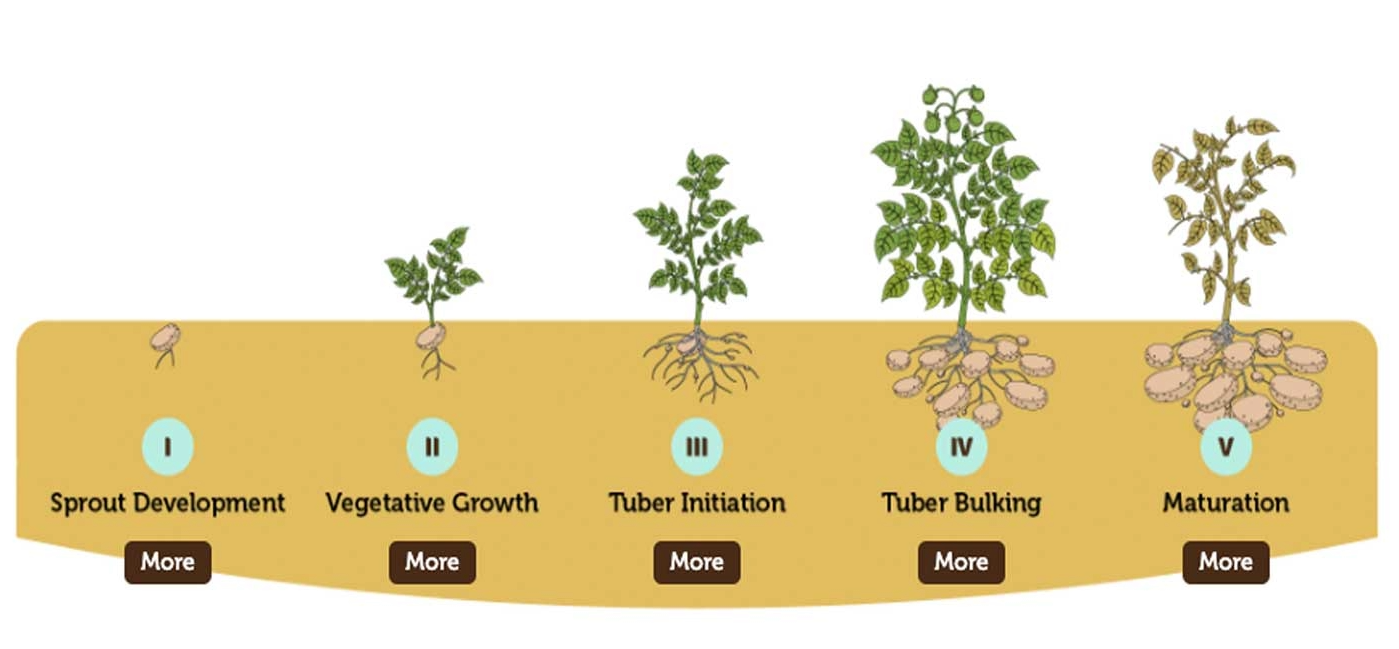
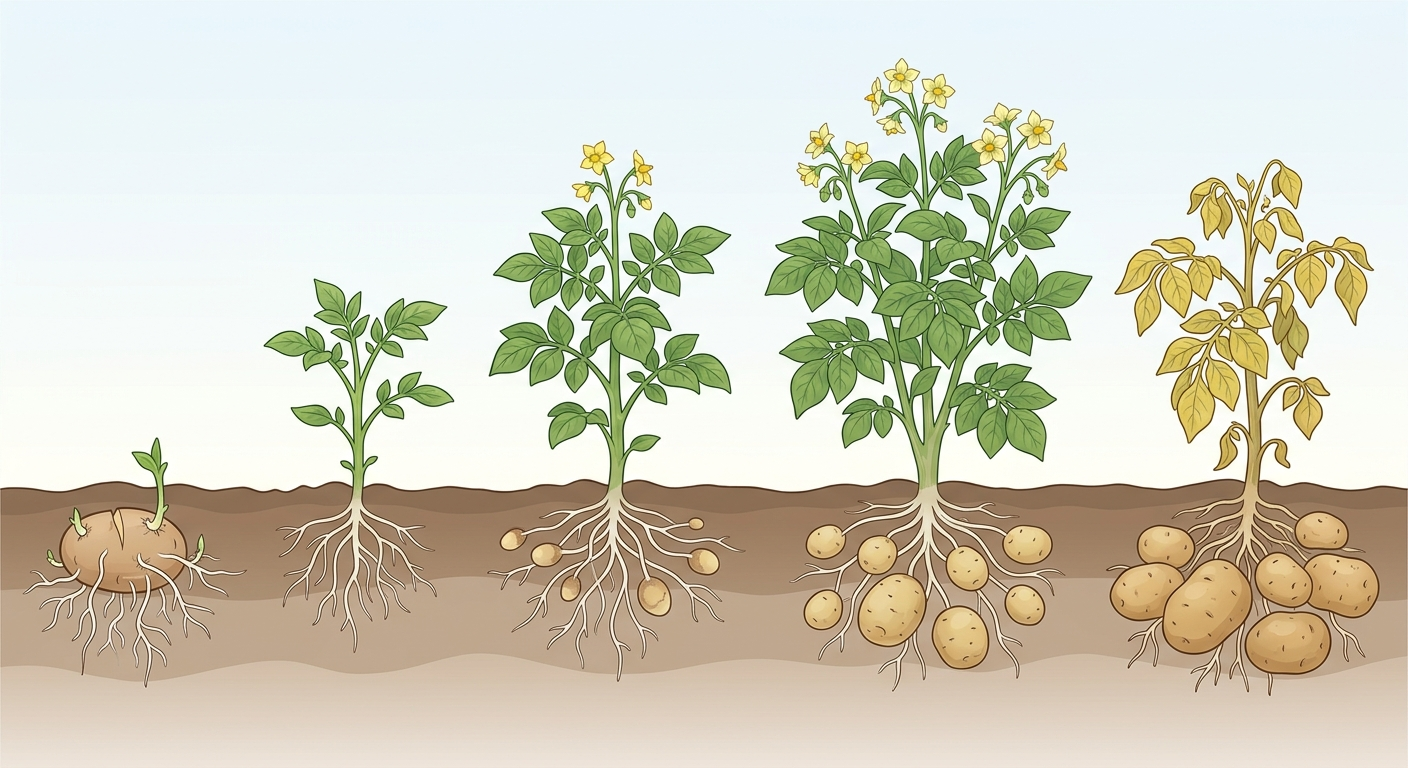
Cut word count  to add more white space

diff --git a/index.html b/index.html
@@ -58,11 +58,11 @@
       <p>After harvesting, the remaining plants/roots decomposese back into the dirt and the harvest is massive  The overall positive is it helps the dirt temporarily and not long term.</p>
         </div>
         <div class="grid2-grid">
-          <div class="titlebox">Potatoes disturb the soil</div>
+          <div class="titlebox">Negatives</div>
           <img src="./Images/potato-soil.jpg" alt="Potato in soil" class="grid2-img">
         </div>
           <div class="grid2-text">
-      <p>The negatives are that if you disturb the soil to much, you might destory the soil aggregates. Soil aggregates are clumps of sand, silt and clay stuck together by micorbial glues and plant roots so they resist erosion and resist being blown away. Potatoes require large amounts of nutrients to develop. Because potatoes take so much nutrient and don't return much the soil will need time to recover</p> 
+      <p>The negatives are that if you disturb the soil to much, you might destory the soil aggregates. Soil aggregates are clumps of sand, silt and clay stuck together by micorbial glues and plant roots so they resist erosion and resist being blown away. Potatoes use lots of nutrients to develop so the soil will need time to recover. Poatoes also attract pests.</p> 
       <p>There is also somehting called the <a href="info.html">Potato Blight</a> which is a potato diesease. Its a disease that make potatoes completly unedible and turn into a foul mush.</p> 
         </div>
           <div class="grid2-text3">
@@ -80,7 +80,7 @@
       <!---The first sub header banner-->
       <section class="bannerbg1">
         <h3 class="bannertext1">
-        How to finally grow potatoes?
+      Beginner guide to grow potatoes.
       </h3>
       </section>
       <!---Alternating format steps-->
@@ -101,15 +101,15 @@
         </div>
         <div class="s1text">
           <h1>Step 2: Prepare the soil to plant</h1>
-          <p class="T1">Start by choosing the day for planting. Jersey benne should be planted in late Auguts and September while Rua and Agria s recommended to be planted in October or November. Then choose a sunny spot that gets 6 to 8 hours if sunlight. Dig holes about 10-15cm deep make sure each of the seed potato sprouts face primarily up. You don't need to space pits if you just dig a long trnech.</p>
+          <p class="T1">Start by choosing the day for planting. Jersey benne should be planted in late Auguts and September while Rua and Agria s recommended to be planted in October or November. Then choose a sunny spot that gets 6 to 8 hours if sunlight. Dig holes or a trench about 10-15cm deep make sure each of the seed potato sprouts face primarily up. J
           <p class="T1">For the early season potato, Jersey Benne, you want the pits about 30cm away form each other. For the maincrops like Rua and Agria you want about 40cm between pits. Potatoes love lots of organic matter because it helps them grow so you can add in some potato fertilizer. Then place a seed potato with the sprout facing up into each pit. Then bury them halfway with about 10cm of dirt and not buryinng them enitrily with 15cm of dirt.</p>
         </div>
       </section>
       <section class="alt2">
         <div class="s1text">
           <h1>Step 3: Start growing potatoes</h1>
-          <p class="T1">Water them lightly when the top layer of soil is dry to touch. After watering the soil, it should be as wet as a wrung out sponge. Is the soil is woaking wet, then the seed potato might rot away. It usually takes about 10-14 days for early varieties(Jersey Benne) for shoots to grow from the ground. It takes about 2-3 weeks for maincrop and late varieties(Agria & Rua) for the shoots to grow out of the ground.</p>
-          <p class="T1">For early growth, you can start watering them with about 1.25 Litres of water per potato at the bottom of the stem to keep leaves dry. Water 1-2 times per week. The top soil layer should dry out between waterings but the soil 5cm down should remain damp. Wehn the stem grows to abotu 15-20cm you should mound up so sorrounding dirt 5-10cm tall onto the stem leaving the top stick out.</p>
+          <p class="T1">Water them lightly when the top layer of soil is dry to touch. After watering the soil, it should be as wet as a wrung out sponge. Is the soil is woaking wet, then the seed potato might rot away. It takes about 10-14 days for early varieties(Jersey Benne) and 2-3 weeks for maincrop and late varieties(Agria & Rua) for the shoots to grow out of the ground.</p>
+          <p class="T1">For early growth, you can start watering them with about 1.25 Litres of water per potato 1-2 times every week at the bottom of the stem to keep leaves dry.The top soil layer should dry out between waterings but the soil 5cm down should remain damp. When the stem grows to abour 15-20cm you should mound up so sorrounding dirt 5-10cm tall onto the stem leaving the top stick out.</p>
           <p class="T1"></p>
         </div>
         <div class="s1image">
@@ -119,10 +119,8 @@
       <section class="alt3">
         <div class="s1text">
           <h1>Step 4:Finish growing poatoes</h1>
-          <p class="T1">Water each plant 2 to 3 times a week(weather dependent).Use a slow stream of 3-4 litres of water onto the base of the hilling or the small dirt hill for each plant. When the plant has grown another 15-20cm, then mound up more surrounding dirt to make the hill another 5-10cm. Only stop when the plant starts flowering. </p>
-          <p class="T1">Early varieties of potatoes finsh growing faster than the other types. The leaves and stem should stay green right till harvest. Just keep on watering the Jersey Benne until 1 day before harvest. The cue to dig them up is if the flowers start opening or fallign off which shoudl be 70-90 days after planting. </p>
-          <p class="T1">Maincrop like Rua take longer to harvest and the plant and leaves should turn yellow. Eventually the stem should fall down. When the leaves start yellowing cut the watering by half and water it only 1 time a week. When the stem flops, stop watering. Then wait 1-2 weeks before digging them up. The wait should harden their skin.</p>
-          <p class="T1">Late varieties like Agria grow until later summer or early autumn. In the late summer or early autumn, the leaves start turning yellow,then brown and then completly die off. As soon as the leaves start yellowing cut the watering entirly. Drepriving Agria will give it that fluffy dry texture. Leave it for 2-3 weeks and then harvest. </p>
+          <p class="T1">Water each plant 2 to 3 times a week and use a slow stream of 3-4 litres of water on the base of the hilling. When the plant has grown another 15-20cm, then mound up the mound another 5-10cm more. Only stop when the plant starts flowering. Early varieties of potatoes finsh growing faster than the other types. The leaves and stem should stay green right till harvest. Keep watering Jersey Benne until 1 day before harvest. The cue to dig them up is if the flowers start opening or falling off which should be 70-90 days after planting. </p>
+          <p class="T1">Maincrop like Rua take longer to harvest and the plant and leaves should turn yellow. When the leaves start yellowing cut the watering by half and water it only 1 time a week until the stem falls. Then wait 1-2 weeks before digging them up. The wait should harden their skin. Late varieties like Agria grow until later summer or early autumn. In the late summer or early autumn, the leaves start turning yellow,then brown and then completly die off. As soon as the leaves start yellowing cut the watering entirly. Drepriving Agria will give it that fluffy dry texture. Leave it for 2-3 weeks and then harvest.(Image of growth below) </p>
         </div>
         <img src="./Images/growth.jpg" alt="growth-diagram" class="img">
       </section>
